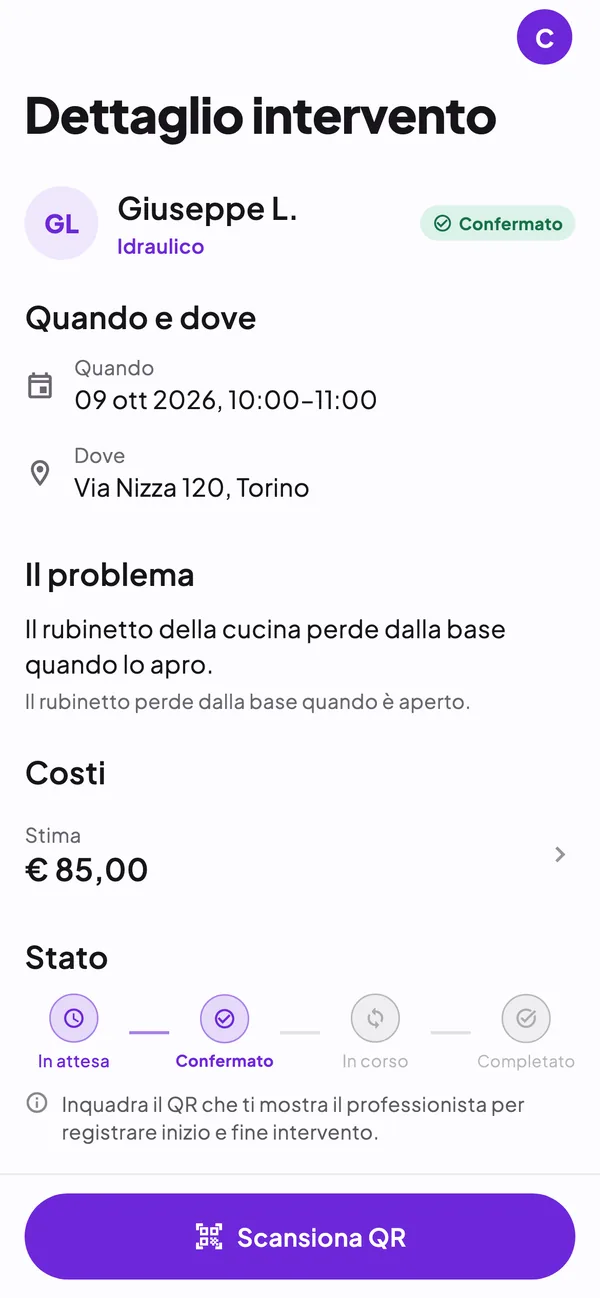
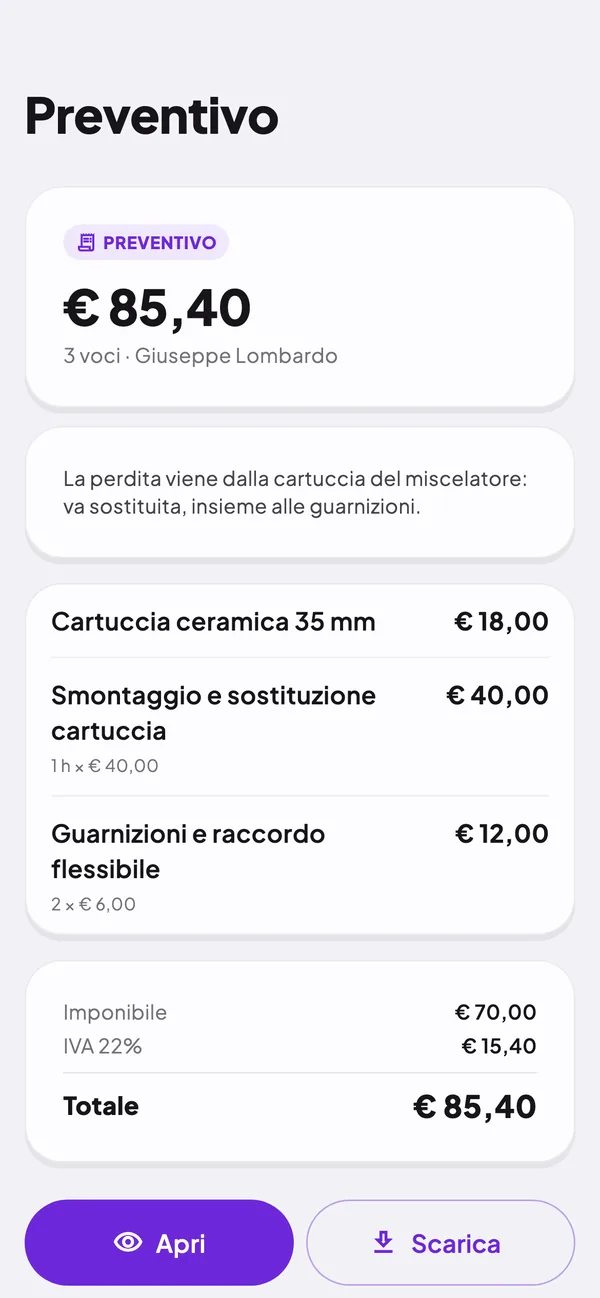
Clienti: stima e preventivo in due passi, il pagamento nell'app in arrivo

diff --git a/app/(site)/clienti/page.tsx b/app/(site)/clienti/page.tsx
@@ -64,18 +64,25 @@ const STEPS: GuideStep[] = [
     points: ["I giorni cerchiati in viola sono quelli disponibili", "Se hai scelto più professionisti, la stessa richiesta arriva anche a loro", "Tocca «Richiedi stima» per mandarla"],
   },
   {
-    id: "stima", short: "Stima in chat", src: `${G}/06.webp`,
-    alt: "Chat con il professionista: la foto del rubinetto, un messaggio e una stima con la descrizione del lavoro, i materiali e i bottoni «Accetta» e «Rifiuta».",
+    id: "stima", short: "La stima", src: `${G}/06.webp`,
+    alt: "Chat con il professionista: la foto del rubinetto, un messaggio e la scheda «Stima» con il lavoro previsto, i materiali e i bottoni «Accetta» e «Rifiuta».",
     title: "Ricevi la stima in chat",
-    text: "Il professionista guarda la tua descrizione e le foto e ti manda la stima in chat. Se chiede un Costo Chiamata, lo vedi prima della visita.",
-    points: ["Leggi cosa comprende: lavoro e materiali", "Tocca «Accetta» o «Rifiuta»", "Scrivigli per qualsiasi dubbio, anche con una foto"],
-    tip: "Il compenso lo concordi direttamente con il professionista: Pluggers non incassa pagamenti nell'app.",
+    text: "Il professionista guarda la descrizione e le foto e ti risponde in chat con una stima di quanto può costare il lavoro. Se chiede un Costo Chiamata per venire a vedere, lo trovi scritto lì.",
+    points: ["La stima è indicativa: il prezzo vero arriva dopo la visita", "Tocca «Accetta» e l'appuntamento è confermato, oppure «Rifiuta»", "Scrivigli per qualsiasi dubbio, anche con una foto"],
   },
   {
-    id: "intervento", short: "Intervento", src: `${G}/07.webp`,
+    id: "preventivo", short: "Il preventivo", src: `${G}/07.webp`,
+    alt: "Schermata «Preventivo»: tre voci con il loro prezzo, imponibile, IVA 22% e totale, e i bottoni «Apri» e «Scarica» per il PDF.",
+    title: "Dopo la visita, il preventivo",
+    text: "Visto il guasto, il professionista ti manda il preventivo in chat: ogni voce con il suo prezzo, poi imponibile, IVA e totale.",
+    points: ["Toccalo per vedere il dettaglio e aprire o scaricare il PDF", "Tocca «Accetta» o «Rifiuta» sulla scheda in chat", "Se durante il lavoro il prezzo cambia, ricevi un preventivo aggiornato con il motivo e le foto: decidi tu se accettarlo"],
+    tip: "Se il preventivo non ti convince, al professionista devi solo il Costo Chiamata, se l'avevi accettato.",
+  },
+  {
+    id: "intervento", short: "Intervento", src: `${G}/08.webp`,
     alt: "Schermata «Dettaglio intervento»: il professionista, quando e dove, il problema, la stima, lo stato e il bottone «Scansiona QR».",
     title: "Il giorno dell'intervento, inizio e fine con un QR",
-    text: "Nel dettaglio dell'intervento trovi quando, dove, il problema e la stima. Quando il professionista arriva, registrate insieme l'inizio.",
+    text: "Nel dettaglio dell'intervento trovi quando, dove, il problema e quanto avete concordato. Quando il professionista arriva, registrate insieme l'inizio.",
     points: ["Tocca «Scansiona QR» e inquadra il codice che ti mostra il professionista", "Fate lo stesso a lavoro finito", "Poi puoi lasciare una recensione"],
     tip: "Lo stato si aggiorna da solo: in attesa, confermato, in corso, completato.",
   },
@@ -94,7 +101,7 @@ export default function ClientiPage() {
             Come si usa Pluggers, passo per passo
           </h1>
           <p className="mt-5 max-w-[56ch] text-[17px] leading-[1.6] text-muted sm:text-lg">
-            Dal guasto in casa all&apos;intervento finito in sette passi. Non serve sapere quale professionista ti serve: lo capisce l&apos;assistente dalla tua descrizione. Per chi cerca è gratis.
+            Dal guasto in casa all&apos;intervento finito in otto passi. Non serve sapere quale professionista ti serve: lo capisce l&apos;assistente dalla tua descrizione. Per chi cerca è gratis.
           </p>
           <a href={WEB_APP_URL} className={`${BTN_PRIMARY} mt-8`}>
             Racconta il tuo problema
@@ -107,6 +114,16 @@ export default function ClientiPage() {
       </section>
 
       <GuideSteps steps={STEPS} label="Guida per i clienti" />
+
+      <section className={`${CONTAINER} pb-12 lg:pb-16`} aria-labelledby="pay-title">
+        <div className="rounded-card bg-surface p-6 shadow-card sm:p-8">
+          <p className="text-[15px] font-bold uppercase tracking-[0.08em] text-accent-text">In arrivo</p>
+          <h2 id="pay-title" className="mt-2 text-[22px] font-extrabold leading-tight tracking-[-0.02em]">Il pagamento nell&apos;app</h2>
+          <p className="mt-2 max-w-[62ch] text-[16px] leading-[1.55] text-muted">
+            Presto potrai pagare il Costo Chiamata e il preventivo accettato direttamente da Pluggers. Fino ad allora li paghi al professionista, come vi accordate.
+          </p>
+        </div>
+      </section>
 
       <TrustRows />
 
